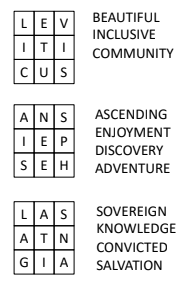
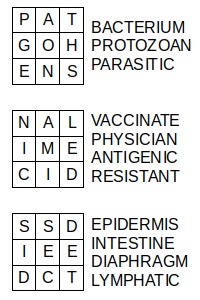
Change blue and yellow puzzles

diff --git a/templates/room6.html b/templates/room6.html
@@ -2,12 +2,6 @@
 <html lang="en">
     <head>
         <title>Room 6</title>
-        <style>
-            img {
-                border: 1px solid grey;
-                width: 850px;
-            }
-        </style>
     </head>
     <body>
         <h1 style="color:#DDDD00">Yellow Room</h1>
@@ -21,22 +15,10 @@
         <p style="color:red">Unfortunately, that was incorrect.</p>
         {% endif %}
 
-        <p>_ _ _ _ _ _ _ _ _ _ _</p>
+        <p>BIG = 396</p>
 
-        1:
-        <img src="static/music_1.png" alt="D C" title="D C"/>
-        <br />
-        2:
-        <img src="static/music_2.png" alt="L A" title="L A" style="img"/>
-        <br />
-        3:
-        <img src="static/music_3.png" alt="S I E" title="S I E" style="img"/>
-        <br />
-        4:
-        <img src="static/music_4.png" alt="A N" title="A N" style="img"/>
-        <br />
-        5:
-        <img src="static/music_5.png" alt="C T" title="C T" style="img"/>
+        <img src="static/wordaddition.png" style="img"/>
+
         <br />
 
         <a href="/room7">Return to White Room</a>

diff --git a/app/main.py b/app/main.py
@@ -175,28 +175,22 @@ async def room3(
         registry: Registry = Depends(require_registry)):
 
         rows = [
-                "NVDTHEBEAANS",
-                "OIEINGITUURE",
-                "CCTDASFULTAD",
-                "WERNECOWENEV",
-                "IINCSHNLGLVN",
-                "ESULLLKEDAAO",
-                "OIVETHCOMSTI",
-                "ERYVENNUMENT",
-                "VDIORGITYMEN",
-                "OCSSEIEREYOJ"
+                "MPCTHEPROANS",
+                "YHIATEZOTANT",
+                "LATNVAOANTRE",
+                "WERICCIDSSIS",
+                "IPARSHPEIAPM",
+                "EISALLERMIHG",
+                "OTICTHBACDRA",
+                "NICTEERETIAN",
+                "EANNSNIUMCPH",
+                "GITITIEREISY"
                 ]
-        key1 = ["LEV", "ITI", "CUS"]
-        key2 = ["ANS", "IEP", "SEH"]
-        key3 = ["LAS", "GIA", "GIA"]
         return templates.TemplateResponse("room3.html",
                 {
                     "request": request,
                     "lockbox_failed": lockbox_failed,
                     "rows": rows,
-                    "key1": key1,
-                    "key2": key2,
-                    "key3": key3,
                 })
 
 
@@ -458,13 +452,13 @@ async def room6_lockbox(
         key: str,
         registry: Registry = Depends(require_registry)):
 
-    if key == "15653":
-        return RedirectResponse(url="/room6/15653")
+    if key == "12390":
+        return RedirectResponse(url="/room6/12390")
     else:
         return RedirectResponse(url="/room6?lockbox_failed=true")
 
 
-@app.get("/room6/15653")
+@app.get("/room6/12390")
 async def room6_answer(
         request: Request,
         registry: Registry = Depends(require_registry)):
